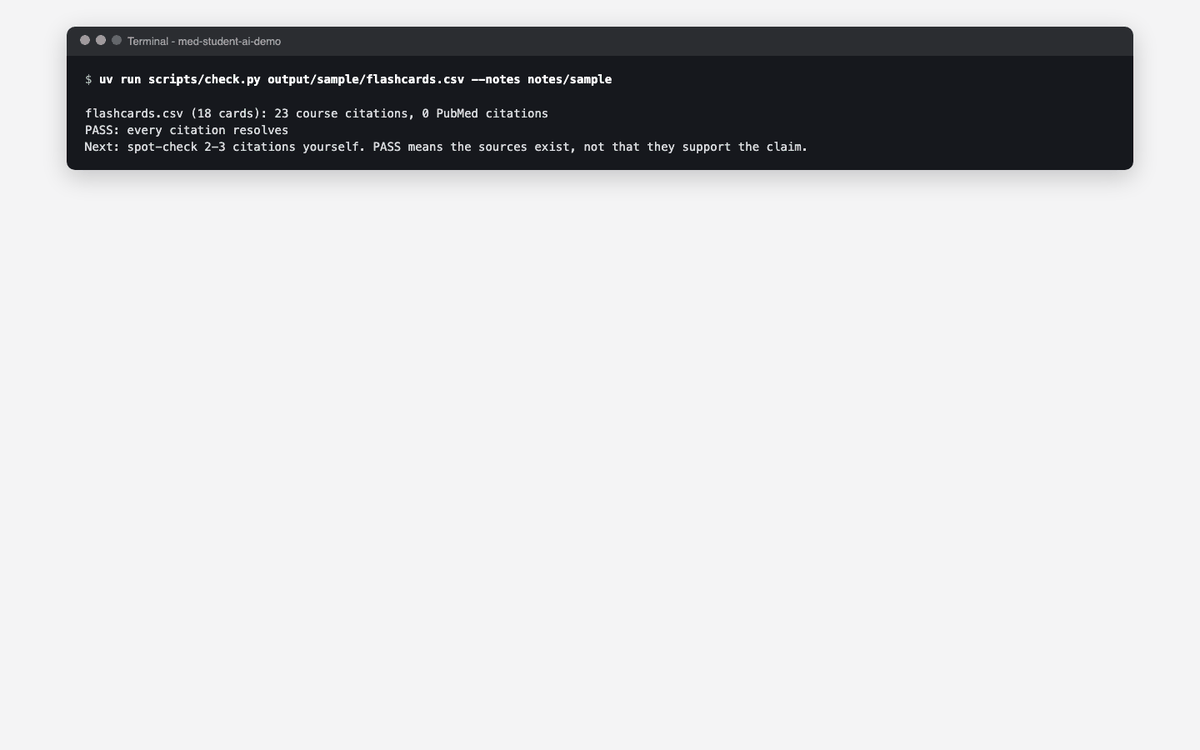
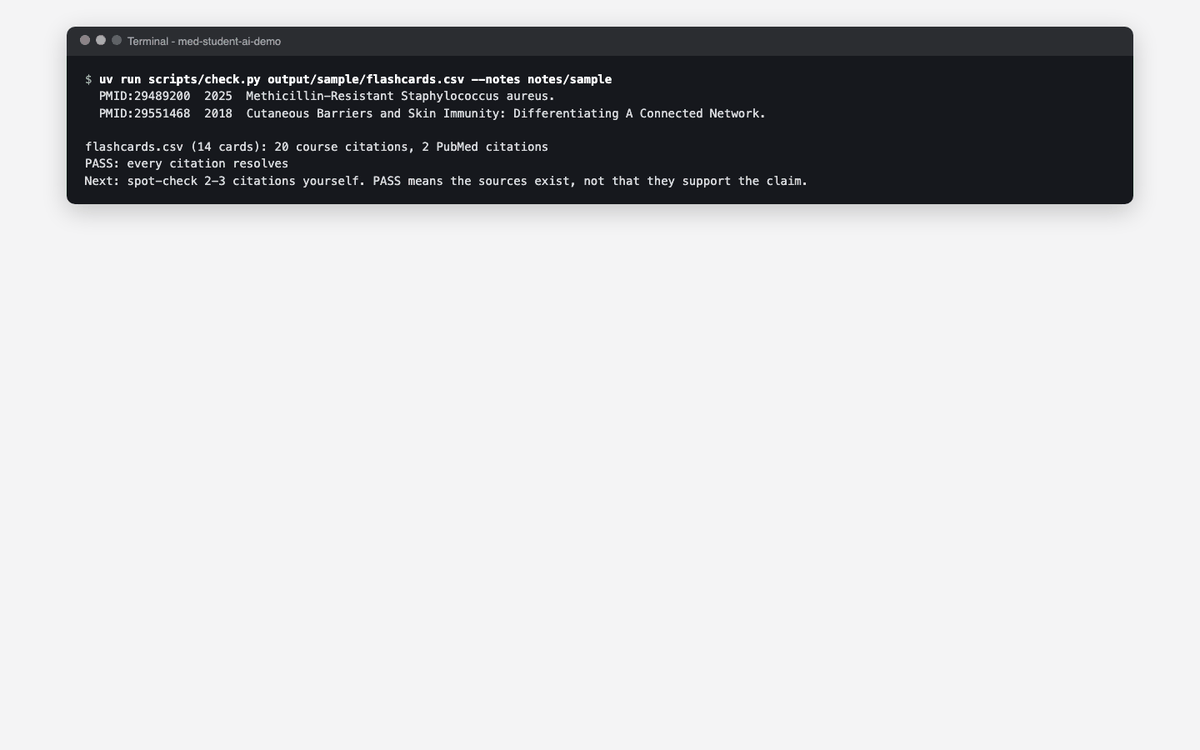
docs: re-shoot flashcard steps from one clean output state; vignettes tab after /vignette (review round 1)
- Flashcard screenshots now come from a fresh /flashcards sample 14 run (14 cards, 10 basic + 4 cloze
  everywhere), not an existing-deck merge.
- The Vignettes tab is shown in Act 6 after /vignette and a re-export with --vignettes, since the
  tab only exists when that flag is passed.
- Node wording: "24 or newer".

Claude-Session: https://claude.ai/code/session_01CiCbeYj6Hrx9M7oV4Xasmr

Changed region(s): [[0.0308, 0.1227, 0.9558, 0.3067]]

diff --git a/docs/DEMO-WALKTHROUGH.md b/docs/DEMO-WALKTHROUGH.md
@@ -10,7 +10,7 @@ abscess) plus a short *S. aureus* lecture deck. Both live in `sample/curriculum/
 
 **Total time:** 25 minutes plus 5 of buffer (a 20-minute version is marked below).
 
-Every screenshot below comes from a timed dress rehearsal on a fresh clone (Claude Code headless, PubMed connector, Node 24).
+Every screenshot below comes from a timed dress rehearsal on a fresh clone (Claude Code headless, PubMed connector, Node 24 or newer).
 The times are what the machine took, not what you will say; talk over the waiting.
 
 | Step | Measured |
@@ -167,7 +167,6 @@ Say: "This is how you verify an AI-written card in 5 seconds." Then show one `{{
 
 ![A clicked citation opens the case-guide page it cites, with the anchored heading highlighted](img/demo/17-citation-landing.png)
 
-![The Vignettes tab: write an answer first, then reveal the options](img/demo/18-vignettes-tab.png)
 
 
 *20-minute version: skip generating live. Open `examples/case2/flashcards.html` and do only the click-a-citation beat.*
@@ -193,8 +192,11 @@ Say: "Attempt first is the whole point. If you ask for the answer, you learn not
   Cards land in the deck `AI Study::sample`. Re-importing updates cards instead of duplicating them.
 - Optional extras: `/visualize` (diagrams), `/vignette`, `/teach-back`, `/anki-sync` (pull your misses back from Anki).
   Mention each in one line. `/vignette` is the safest to show: you write an answer before any options appear, and a miss becomes a cited cloze card.
+  After it, re-run the export with `--vignettes output/sample/vignettes.json` added, and the study page gets a **Vignettes** tab.
 
 ![/vignette: the question appears first, and options only after the student's own answer](img/demo/20-vignette-session.png)
+
+![The Vignettes tab after re-exporting with --vignettes: write an answer first, then reveal the options](img/demo/18-vignettes-tab.png)
 
 - Close with the section below.
 
